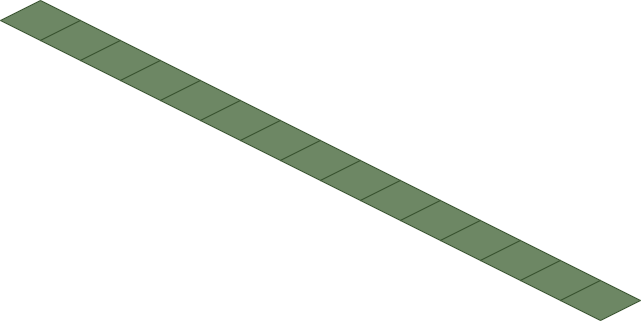
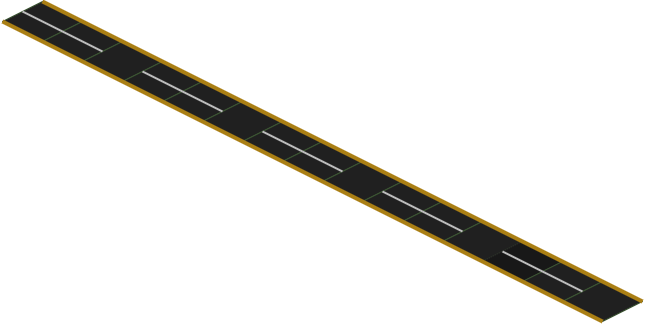
Add street and grass, modify collision boundaries, fix bug unwanted object

Changed region(s): [[0.0, 0.0, 1.0, 0.9969]]

diff --git a/src/Player.cpp b/src/Player.cpp
@@ -87,38 +87,38 @@ bool Player::collision(Object *ob) {
     float X = ob->getX();
     float Y = ob->getY();
     if (ob->getType()==Objects::Dinosaur){
-        if((this->mY==Y)&&((this->mX >= X && this->mX <= X+30.0f)||(this->mX+40.0f >= X && this->mX+40.0f <=X+30.0f)))//size is 60x40
+        if((this->mY==Y)&&((this->mX >= X && this->mX <= X+25.0f)||(this->mX+30.0f >= X && this->mX+30.0f <=X+25.0f)))//size is 60x40
             return true;
-        if((this->mY > Y&&this->mY<Y+40.0f) && ((this->mX > X&&this->mX <X+30.0f)||(this->mX+40.0f > X&&this->mX+40.0f <X+30.0f)))//size is 60x40
+        if((this->mY > Y&&this->mY<Y+40.0f) && ((this->mX > X&&this->mX <X+15.0f)||(this->mX+30.0f > X&&this->mX+30.0f <X+15.0f)))//size is 60x40
             return true;
-        if((this->mY < Y&&this->mY>Y-40.0f) && ((this->mX > X&&this->mX <X+30.0f)||(this->mX+40.0f > X&&this->mX+40.0f <X+30.0f)))//size is 60x40
+        if((this->mY < Y&&this->mY>Y-40.0f) && ((this->mX > X&&this->mX <X+15.0f)||(this->mX+30.0f > X&&this->mX+30.0f <X+15.0f)))//size is 60x40
             return true;
     }
 
     if (ob->getType()==Objects::Bird){
-        if(((this->mY==Y)&&((this->mX+5.0f > X&&this->mX+5.0f <X+10.0f)||(this->mX+40.0f > X&&this->mX+40.0f <X+10.0f))))//size is 40x40
+        if(((this->mY==Y)&&((this->mX > X&&this->mX <X+10.0f)||(this->mX+20.0f > X&&this->mX+20.0f <X+10.0f))))//size is 40x40
             return true;
-        if((this->mY > Y&&this->mY<Y+40.0f) && ((this->mX+5.0f > X&&this->mX <X+10.0f)||(this->mX+40.0f > X&&this->mX+40.0f <X+10.0f)))//size is 40x40
+        if((this->mY > Y&&this->mY<Y+40.0f) && ((this->mX+5.0f > X&&this->mX <X+5.0f)||(this->mX+15.0f > X&&this->mX+15.0f <X+5.0f)))//size is 40x40
             return true;
-        if((this->mY < Y&&this->mY>Y-40.0f) && ((this->mX+5.0f > X&&this->mX <X+10.0f)||(this->mX+40.0f > X&&this->mX+40.0f <X+10.0f)))//size is 40x40
+        if((this->mY < Y&&this->mY>Y-40.0f) && ((this->mX+5.0f > X&&this->mX <X+5.0f)||(this->mX+15.0f > X&&this->mX+15.0f <X+5.0f)))//size is 40x40
             return true;
     }
 
     if (ob->getType()==Objects::Car){
-        if(((this->mY==Y)&&((this->mX+5.0f > X&&this->mX+5.0f <X+20.0f)||(this->mX+40.0f > X&&this->mX+40.0f <X+20.0f))))//size is 40x40
+        if(((this->mY==Y)&&((this->mX+5.0f > X&&this->mX+5.0f <X+20.0f)||(this->mX+30.0f > X&&this->mX+30.0f <X+20.0f))))//size is 40x40
             return true;
-        if((this->mY > Y&&this->mY<Y+40.0f) && ((this->mX+5.0f > X&&this->mX+5.0f <X+20.0f)||(this->mX+40.0f > X&&this->mX+40.0f <X+20.0f)))//size is 40x40
+        if((this->mY > Y&&this->mY<Y+40.0f) && ((this->mX+5.0f > X&&this->mX+5.0f <X+10.0f)||(this->mX+40.0f > X&&this->mX+40.0f <X+10.0f)))//size is 40x40
             return true;
-        if((this->mY < Y&&this->mY>Y-40.0f) && ((this->mX+5.0f > X&&this->mX+5.0f <X+20.0f)||(this->mX+40.0f > X&&this->mX+40.0f <X+20.0f)))//size is 40x40
+        if((this->mY < Y&&this->mY>Y-40.0f) && ((this->mX+5.0f > X&&this->mX+5.0f <X+10.0f)||(this->mX+40.0f > X&&this->mX+40.0f <X+10.0f)))//size is 40x40
             return true;
     }
 
     if (ob->getType()==Objects::Truck){
-        if(((this->mY==Y)&&((this->mX >= X&&this->mX <X+40.0f)||(this->mX+40.0f > X&&this->mX+40.0f <X+40.0f))))//size is 60x40
+        if(((this->mY==Y)&&((this->mX >= X&&this->mX <X+35.0f)||(this->mX+30.0f > X&&this->mX+30.0f <X+35.0f))))//size is 60x40
             return true;
-        if((this->mY > Y&&this->mY<Y+40.0f) && ((this->mX > X&&this->mX <X+40.0f)||(this->mX+40.0f > X&&this->mX+40.0f <X+40.0f)))//size is 60x40
+        if((this->mY > Y&&this->mY<Y+40.0f) && ((this->mX > X&&this->mX <X+25.0f)||(this->mX+30.0f > X&&this->mX+30.0f <X+25.0f)))//size is 60x40
             return true;
-        if((this->mY < Y&&this->mY>Y-40.0f) && ((this->mX > X&&this->mX <X+40.0f)||(this->mX+40.0f > X&&this->mX+40.0f <X+40.0f)))//size is 60x40
+        if((this->mY < Y&&this->mY>Y-40.0f) && ((this->mX > X&&this->mX <X+25.0f)||(this->mX+30.0f > X&&this->mX+30.0f <X+25.0f)))//size is 60x40
             return true;
     }
     if (ob->getType()==Objects::Obstacle){

diff --git a/src/Object.cpp b/src/Object.cpp
@@ -260,6 +260,7 @@ Obstacle::~Obstacle(){
 
 void TrafficLamp::drawThis() {
     Texture2D texture;
+    bool check = 0;
     switch (this->states) {
         case TrafficLampStates::ID::Green:
             texture = mTextures->get(Textures::TrafficLamp_green);
@@ -271,18 +272,13 @@ void TrafficLamp::drawThis() {
             texture = mTextures->get(Textures::TrafficLamp_red);
             break;
         default:
+            check = true;
             break;
     }
-      // get texture
-    // if (this->direction == 1) {
-    // }
-    // else {  // flip texture to the suitable direction
-    //     // Color* pixels = LoadImageColors(inverseDirect);
-    //     // UpdateTexture(inverseTexture, pixels);
-    //     // UnloadImageColors(pixels);
-    // }
-    // pos.y -= texture.height*0.25;
-    DrawTexture(texture, (int)pos.x, (int)pos.y, WHITE);
+
+    // DrawRectangleV(this->pos, { 40.0f, 40.0f }, BLUE);
+    if (!check)
+        DrawTexture(texture, (int)pos.x, (int)pos.y, WHITE);
     // DrawRectangle(this->mX, this->mY, texture.width, texture.height, RED);
 }
 

diff --git a/src/Lanes/BirdJungleLane.cpp b/src/Lanes/BirdJungleLane.cpp
@@ -8,7 +8,18 @@ BirdJungleLane::~BirdJungleLane() {}
 void BirdJungleLane::drawThis() {
     // DrawRectangle(0, SCREEN_HEIGHT - mY, GetScreenWidth(), 100, GREEN);
 
-    Texture2D texture = this->mTextures->get(Textures::Jungle);
+    if (!this->nextTime--) {
+        random = GetRandomValue(1, 3);
+        nextTime = 3 * FPS;
+    }
+    Texture2D texture;
+    if (random == 1)
+        texture = this->mTextures->get(Textures::Jungle_1);
+    if (random == 2)
+        texture = this->mTextures->get(Textures::Jungle_2);
+    if (random == 3)
+        texture = this->mTextures->get(Textures::Jungle_3);
+
     DrawTexture(texture, (int)pos1.x, (int)pos1.y, WHITE);
     DrawTexture(texture, (int)pos2.x, (int)pos2.y, GRAY);
     DrawTexture(texture, (int)pos3.x, (int)pos3.y, GRAY);

diff --git a/src/Lanes/ForestLane.cpp b/src/Lanes/ForestLane.cpp
@@ -8,7 +8,18 @@ ForestLane::~ForestLane() {}
 void ForestLane::drawThis() {
     // DrawRectangle(0, SCREEN_HEIGHT - mY, GetScreenWidth(), 100, GREEN);
 
-    Texture2D texture = this->mTextures->get(Textures::Jungle);
+    if (!this->nextTime--) {
+        random = GetRandomValue(1, 3);
+        nextTime = 3 * FPS;
+    }
+    Texture2D texture;
+    if (random == 1)
+        texture = this->mTextures->get(Textures::Jungle_1);
+    if (random == 2)
+        texture = this->mTextures->get(Textures::Jungle_2);
+    if (random == 3)
+        texture = this->mTextures->get(Textures::Jungle_3);
+
     DrawTexture(texture, (int)pos1.x, (int)pos1.y, WHITE);
     DrawTexture(texture, (int)pos2.x, (int)pos2.y, GRAY);
     DrawTexture(texture, (int)pos3.x, (int)pos3.y, GRAY);

diff --git a/src/Lanes/JungleLane.cpp b/src/Lanes/JungleLane.cpp
@@ -8,7 +8,18 @@ JungleLane::~JungleLane() {}
 void JungleLane::drawThis() {
     // DrawRectangle(0, SCREEN_HEIGHT - mY, GetScreenWidth(), 100, GREEN);
 
-    Texture2D texture = this->mTextures->get(Textures::Jungle);
+    if (!this->nextTime--) {
+        random = GetRandomValue(1, 3);
+        nextTime = 3 * FPS;
+    }
+    Texture2D texture;
+    if (random == 1)
+        texture = this->mTextures->get(Textures::Jungle_1);
+    if (random == 2)
+        texture = this->mTextures->get(Textures::Jungle_2);
+    if (random == 3)
+        texture = this->mTextures->get(Textures::Jungle_3);
+
     DrawTexture(texture, (int)pos1.x, (int)pos1.y, WHITE);
     DrawTexture(texture, (int)pos2.x, (int)pos2.y, GRAY);
     DrawTexture(texture, (int)pos3.x, (int)pos3.y, GRAY);

diff --git a/src/Program.cpp b/src/Program.cpp
@@ -27,7 +27,9 @@ Program::Program() : mStateStack(State::Context(mTextures = new TextureHolder(),
 
     mTextures->load(Textures::Plain, "../asset/lane/Plain_final.png");
     mTextures->load(Textures::Road, "../asset/lane/Road_final.png");
-    mTextures->load(Textures::Jungle, "../asset/lane/Jungle_final.png");
+    mTextures->load(Textures::Jungle_1, "../asset/lane/Jungle_final_1.png");
+    mTextures->load(Textures::Jungle_2, "../asset/lane/Jungle_final_2.png");
+    mTextures->load(Textures::Jungle_3, "../asset/lane/Jungle_final_3.png");
 
     mTextures->load(Textures::Car_left, "../asset/object/vehicle_car_left.png");
     mTextures->load(Textures::Car_right, "../asset/object/vehicle_car_right.png");

diff --git a/src/ResourceIdentifiers.hpp b/src/ResourceIdentifiers.hpp
@@ -20,7 +20,9 @@ namespace Textures {
         GameBackground,
         PausedBackground,
         Road,
-        Jungle,
+        Jungle_1,
+        Jungle_2,
+        Jungle_3,
         Plain,
         Player_right,
         Player_left,

diff --git a/src/Lanes/BirdJungleLane.h b/src/Lanes/BirdJungleLane.h
@@ -6,6 +6,8 @@
 class BirdJungleLane : public Lane {
 private:
     float speed;
+    int random;
+    int nextTime = 0;
     Objects::ID type = Objects::Bird;
 public:
     BirdJungleLane(TextureHolder *textures);

diff --git a/src/Lanes/ForestLane.h b/src/Lanes/ForestLane.h
@@ -6,6 +6,8 @@
 class ForestLane : public Lane {
 private:
     float speed;
+    int random;
+    int nextTime = 0;
     Objects::ID type = Objects::Obstacle;
 public:
     ForestLane(TextureHolder *textures);

diff --git a/src/Lanes/JungleLane.h b/src/Lanes/JungleLane.h
@@ -6,6 +6,8 @@
 class JungleLane : public Lane {
 private:
     float speed;
+    int random;
+    int nextTime = 0;
     Objects::ID type = Objects::Dinosaur;
 public:
     JungleLane(TextureHolder *textures);
